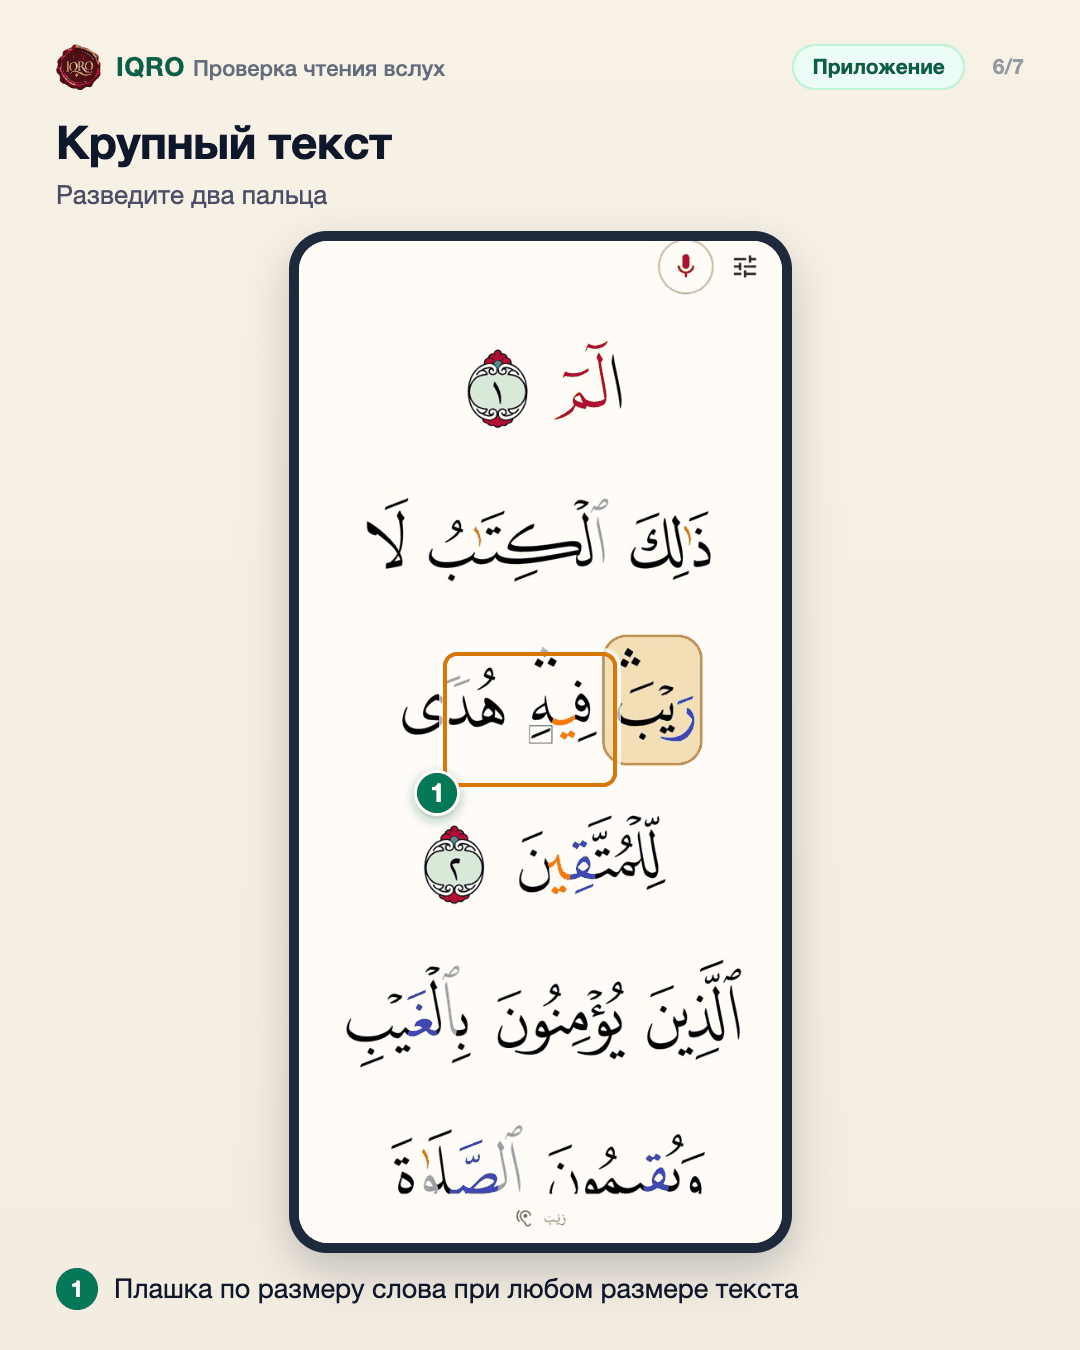
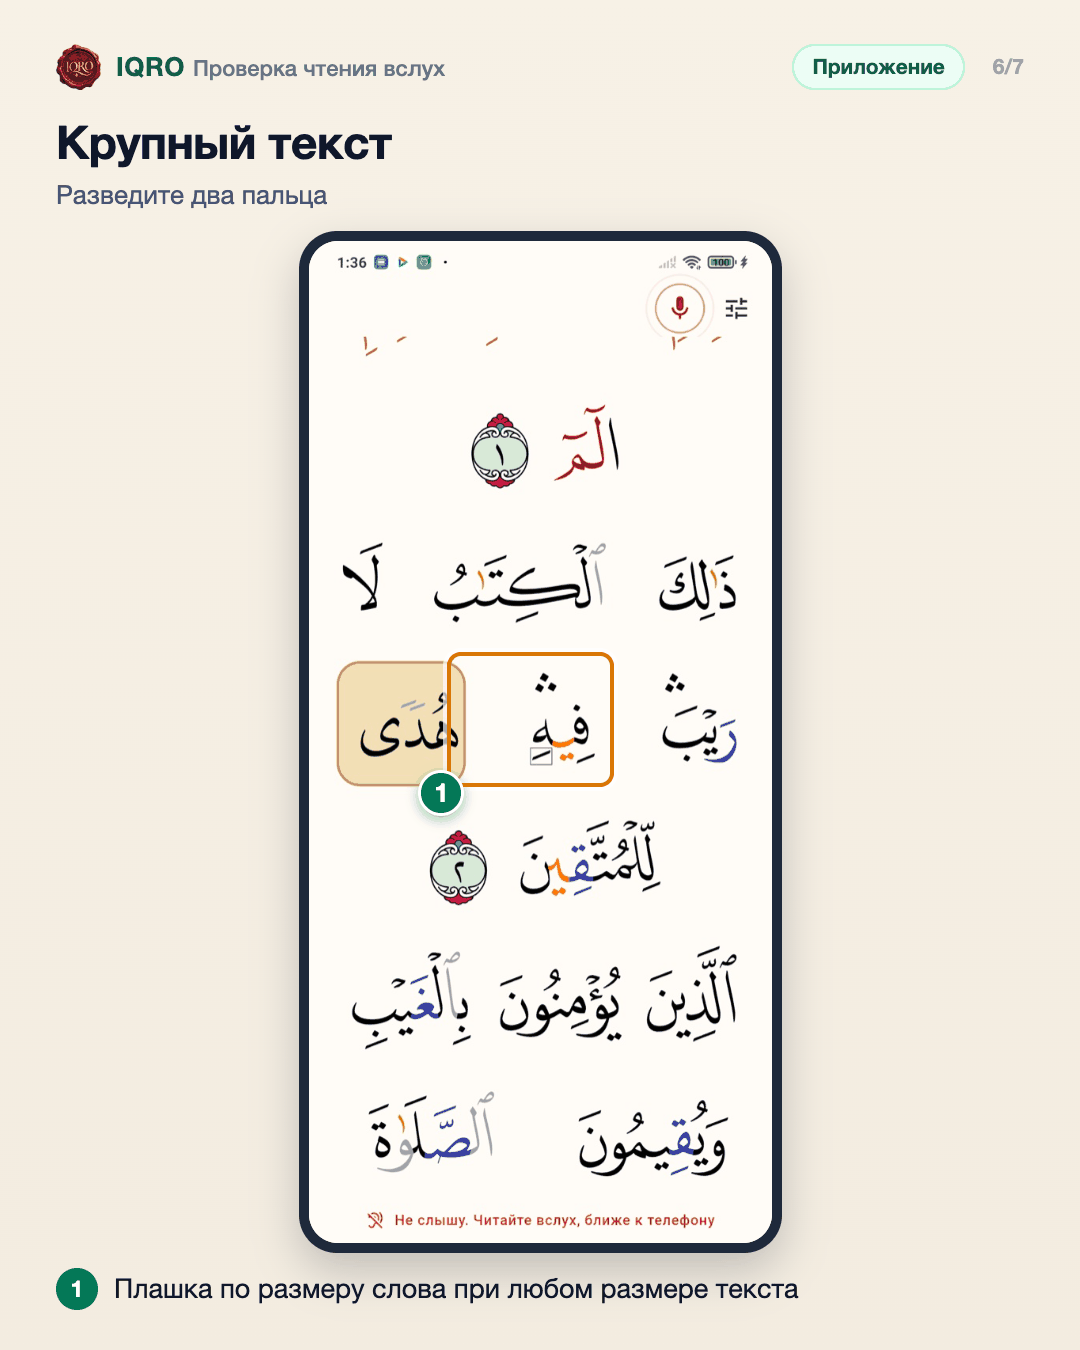
Проверка чтения вслух: строки от края до края при любом размере
Текст разбивается на строки под текущий размер, свободное место строки
делится между её словами; последняя строка аята по центру. Высота строки
1,8 вместо 2. Жесты (щипок, двойное касание) и настройка размера прежние.

Changed region(s): [[0.2444, 0.1556, 0.7333, 0.9333], [0.3361, 0.8089, 0.6722, 0.9333], [0.0611, 0.0311, 0.0917, 0.0622]]

diff --git a/clients/iqro_mobile/lib/features/quran/reader_words.dart b/clients/iqro_mobile/lib/features/quran/reader_words.dart
@@ -91,7 +91,8 @@ class ReaderAyahWords extends StatefulWidget {
        markerStyle = null,
        kashida = false,
        marked = null,
-       plates = const <ReaderWordPlate>[];
+       plates = const <ReaderWordPlate>[],
+       fill = false;
 
   /// Several ayahs running on in one paragraph, as on a Mushaf page.
   ReaderAyahWords.flow({
@@ -106,6 +107,7 @@ class ReaderAyahWords extends StatefulWidget {
     this.range,
     this.marked,
     this.plates = const <ReaderWordPlate>[],
+    this.fill = false,
     this.playingWord,
     this.onDrag,
     super.key,
@@ -147,6 +149,12 @@ class ReaderAyahWords extends StatefulWidget {
 
   /// Plates under words: the one a reader is on, or is to read again.
   final List<ReaderWordPlate> plates;
+
+  /// Every line but the last as wide as the paragraph: the room a line's
+  /// words leave is shared out between them, so a large text fills the
+  /// screen from edge to edge whatever its size. The last line keeps
+  /// [textAlign].
+  final bool fill;
   final TextStyle? style;
   final ReaderWordRegistry registry;
   final QuranWordRange? range;
@@ -257,7 +265,12 @@ class _ReaderAyahWordsState extends State<ReaderAyahWords> {
     if (range != null && range != widget.range) widget.onRange(range);
   }
 
-  TextSpan _span(double width) {
+  /// With [lines], the text is broken where an earlier layout broke it
+  /// and the gap before each word is wider by what [lines] gives it.
+  TextSpan _span(
+    double width, {
+    ({Set<int> ends, Map<int, double> gaps})? lines,
+  }) {
     final range = widget.range;
     final marked = widget.marked;
     final children = <InlineSpan>[];
@@ -294,10 +307,17 @@ class _ReaderAyahWordsState extends State<ReaderAyahWords> {
           children.add(
             TextSpan(
               // A drawn-out line ends where the layout ended it.
-              text: layout?.breaks.contains(index - 1) ?? false ? '\n' : ' ',
-              style: joined
-                  ? const TextStyle(backgroundColor: wordRangeSelectionColor)
-                  : null,
+              text:
+                  (layout?.breaks.contains(index - 1) ?? false) ||
+                      (lines?.ends.contains(words.length - 1) ?? false)
+                  ? '\n'
+                  : ' ',
+              style: TextStyle(
+                backgroundColor: joined ? wordRangeSelectionColor : null,
+                // (Letter spacing: the gap is a span of its own, and
+                // word spacing does nothing to such a one.)
+                letterSpacing: lines?.gaps[words.length],
+              ),
             ),
           );
           length += 1;
@@ -337,6 +357,48 @@ class _ReaderAyahWordsState extends State<ReaderAyahWords> {
     _words = words;
     _offsets = offsets;
     return TextSpan(style: widget.style, children: children);
+  }
+
+  /// Where [painter] broke the text into lines, and by how much the gap
+  /// before each word is to grow for its line to be as wide as the
+  /// paragraph; null when the text is one line.
+  ({Set<int> ends, Map<int, double> gaps})? _filled(
+    TextPainter painter,
+    double width,
+  ) {
+    final metrics = painter.computeLineMetrics();
+    if (metrics.length < 2 || _words.isEmpty) return null;
+    // The words of each line: a new line begins where a word's box is
+    // lower than the one before it.
+    final firsts = <int>[0];
+    double? top;
+    for (var index = 0; index < _words.length; index++) {
+      final box = _wordBox(index);
+      if (box == null) return null;
+      if (top != null && (box.top - top).abs() > 1) firsts.add(index);
+      top = box.top;
+    }
+    if (firsts.length != metrics.length) return null;
+    // No gap grows beyond a letter's height or so: two short words do
+    // not go to the two edges of the screen.
+    final most = (widget.style?.fontSize ?? 20) * .9;
+    final ends = <int>{};
+    final gaps = <int, double>{};
+    for (var line = 0; line < firsts.length - 1; line++) {
+      final first = firsts[line];
+      final next = firsts[line + 1];
+      ends.add(next - 1);
+      final between = next - first - 1;
+      if (between < 1) continue;
+      final gap = ((width - metrics[line].width - 1) / between).clamp(
+        0.0,
+        most,
+      );
+      for (var index = first + 1; index < next; index++) {
+        gaps[index] = gap;
+      }
+    }
+    return (ends: ends, gaps: gaps);
   }
 
   Rect? _globalRect(QuranWord word) {
@@ -416,13 +478,22 @@ class _ReaderAyahWordsState extends State<ReaderAyahWords> {
   Widget build(BuildContext context) => LayoutBuilder(
     builder: (context, constraints) {
       _painter?.dispose();
-      final painter = TextPainter(
-        text: _span(constraints.maxWidth),
+      TextPainter laid(TextSpan text) => TextPainter(
+        text: text,
         textAlign: widget.textAlign,
         textDirection: TextDirection.rtl,
         textScaler: MediaQuery.textScalerOf(context),
       )..layout(minWidth: constraints.maxWidth, maxWidth: constraints.maxWidth);
+      var painter = laid(_span(constraints.maxWidth));
       _painter = painter;
+      if (widget.fill) {
+        final lines = _filled(painter, constraints.maxWidth);
+        if (lines != null) {
+          painter.dispose();
+          painter = laid(_span(constraints.maxWidth, lines: lines));
+          _painter = painter;
+        }
+      }
       // Where the plates are.
       final plates = <({RRect box, Color fill, Color edge})>[];
       for (final plate in widget.plates) {

diff --git a/clients/iqro_mobile/test/features/reader_word_plate_test.dart b/clients/iqro_mobile/test/features/reader_word_plate_test.dart
@@ -91,4 +91,56 @@ void main() {
       expect(at(Offset(second.left - 6, second.center.dy)), paper);
     },
   );
+
+  testWidgets('a filled text has every line but the last from edge to edge, '
+      'at any size', (tester) async {
+    final registry = ReaderWordRegistry();
+    Future<void> pump(double size) => tester.pumpWidget(
+      Directionality(
+        textDirection: TextDirection.rtl,
+        child: Center(
+          child: SizedBox(
+            width: 250,
+            child: ReaderAyahWords.flow(
+              surah: 1,
+              ayahs: const <ReaderAyahText>[
+                ReaderAyahText(
+                  ayah: 1,
+                  words: <String>['aaa', 'bbb', 'ccc', 'ddd', 'eee'],
+                ),
+              ],
+              style: TextStyle(fontSize: size, height: 1),
+              registry: registry,
+              onRange: (_) {},
+              textAlign: TextAlign.center,
+              fill: true,
+            ),
+          ),
+        ),
+      ),
+    );
+    Rect word(int index) => registry.wordRect(QuranWord(1, 1, index))!;
+    final left = (800 - 250) / 2;
+
+    // Three words of three squares and two gaps are 220 wide: the 30 left
+    // over go into the gaps, and the line is as wide as the paragraph.
+    // (Latin letters go from the left, whatever the paragraph.)
+    await pump(20);
+    expect(word(1).left, closeTo(left, 1.5));
+    expect(word(3).right, closeTo(left + 250, 1.5));
+    expect(word(2).top, word(1).top);
+    // The last line stays in the middle, its words as near as they were.
+    expect(word(4).top, greaterThan(word(1).top));
+    expect(word(5).left - word(4).right, closeTo(20, .5));
+    expect((word(4).left + word(5).right) / 2, closeTo(left + 125, 1));
+
+    // Larger, the lines are broken anew and filled again: two words to a
+    // line, the gap between them no wider than a letter or so.
+    await pump(32);
+    expect(word(2).top, word(1).top);
+    expect(word(3).top, greaterThan(word(1).top));
+    expect(word(1).left, closeTo(left, 1.5));
+    expect(word(2).right, closeTo(left + 250, 1.5));
+    expect(word(5).center.dx, closeTo(left + 125, 1));
+  });
 }

diff --git a/clients/iqro_mobile/lib/features/quran/reader_flow_screen.dart b/clients/iqro_mobile/lib/features/quran/reader_flow_screen.dart
@@ -947,7 +947,9 @@ class _FlowPageState extends ConsumerState<_FlowPage> {
       fontFamily: IqroTheme.arabicFontFamily,
       fontWeight: FontWeight.normal,
       fontSize: size,
-      height: 2,
+      // Room for the marks over and under a line, and no more: a large
+      // text is not to leave the screen half empty.
+      height: 1.8,
     );
     int? pageOf(QuranAyah ayah) =>
         mushafPageOfAyah(versePages, widget.surah, ayah.number, ayah.pages);
@@ -1128,10 +1130,12 @@ class _FlowPageState extends ConsumerState<_FlowPage> {
                                           ),
                                   ),
                                 ],
-                                // Every line in the middle of the screen,
-                                // as wide as its words: at a large size
-                                // two or three words fill a line.
+                                // Lines from edge to edge of the screen at
+                                // any size, the room their words leave
+                                // shared out between them; an ayah's last
+                                // line in the middle.
                                 textAlign: TextAlign.center,
+                                fill: true,
                                 markerStyle: const TextStyle(
                                   color: _markerColor,
                                 ),

diff --git a/clients/iqro_mobile/README.md b/clients/iqro_mobile/README.md
@@ -559,11 +559,24 @@ Apple Developer и включён в provisioning profiles приложения 
 
 ### Вёрстка текста
 
-Строки стоят по центру экрана, шаг между строками один и тот же — и внутри аята, и между аятами (каждый
-аят начинается с новой строки; пустой строки между аятами и растягивания строк до краёв больше нет,
-с 20.11.2026). Размер меняется разведением двух пальцев или ползунком (24–72, по умолчанию 40), двойное
-касание возвращает размер по умолчанию; при крупном размере в строке два-три слова. Образец — видео
-владельца: крупный ровный текст, плашка под текущим словом, текущая строка у середины экрана.
+Строки идут от края до края экрана при любом размере: текст разбивается на строки под текущий размер,
+а место, которое слова не заняли, делится поровну между словами строки (`ReaderAyahWords.flow(fill: true)`:
+первая вёрстка узнаёт, где кончаются строки, вторая раздвигает слова; промежуток растёт не больше чем на
+0,9 размера шрифта, чтобы два коротких слова не разъезжались к краям). Последняя строка аята и строка из
+одного слова стоят по центру. Шаг между строками один и тот же — и внутри аята, и между аятами (высота
+строки 1,8; каждый аят начинается с новой строки, пустой строки между аятами нет). Буквы не растягиваются
+и не меняются: шрифты Мусхафа — готовые рисунки слов.
+
+Размер меняется разведением и сведением двух пальцев или ползунком (24–72, по умолчанию 40), двойное
+касание возвращает размер по умолчанию. Жест и ползунок меняют одну и ту же настройку
+(`readerFlowFontSize`), она сохраняется. Касание слова, долгое нажатие (выделение слов) и смахивание между
+экранами работают как раньше. Образец — видео владельца: крупный ровный текст, плашка под текущим словом,
+текущая строка у середины экрана. Отличие от образца: там следующий аят продолжается в той же строке, у нас
+каждый аят начинается с новой.
+
+Тесты: «a filled text has every line but the last from edge to edge…» в
+`test/features/reader_word_plate_test.dart`, «two fingers pulled apart…» в
+`test/features/reader_swipe_widget_test.dart`.
 
 ### Кто слушает
 

diff --git a/docs/guides/recitation-check/README.md b/docs/guides/recitation-check/README.md
@@ -40,7 +40,7 @@
 
 ![Крупный текст](6-large.png)
 
-Разведите два пальца на тексте — он станет крупнее, сведите — мельче; двойное касание возвращает обычный размер. Строки стоят по центру экрана с одинаковым шагом, при крупном размере в строке два-три слова. Размер можно задать и ползунком — кнопка справа от микрофона.
+Разведите два пальца на тексте — он станет крупнее, сведите — мельче; двойное касание возвращает обычный размер. При любом размере строки занимают экран от края до края, шаг между строками одинаковый; при крупном размере в строке два-три слова. Размер можно задать и ползунком — кнопка справа от микрофона.
 
 ## Если телефон не слышит
 
